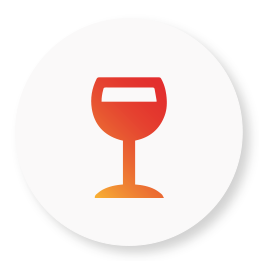
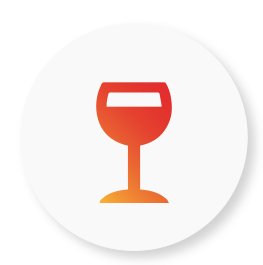
drankblade aangepast en meer gestijld + bottom nav

diff --git a/resto/resources/views/layouts/menu.blade.php b/resto/resources/views/layouts/menu.blade.php
@@ -1,0 +1,24 @@
+<!doctype html>
+<html lang="en">
+<head>
+    <!-- Required meta tags -->
+    <meta charset="utf-8">
+    <meta name="viewport" content="width=device-width, initial-scale=1, shrink-to-fit=no">
+
+    <!-- Bootstrap CSS -->
+    <link rel="stylesheet" href="https://stackpath.bootstrapcdn.com/bootstrap/4.3.1/css/bootstrap.min.css" integrity="sha384-ggOyR0iXCbMQv3Xipma34MD+dH/1fQ784/j6cY/iJTQUOhcWr7x9JvoRxT2MZw1T" crossorigin="anonymous">
+
+    <title>Resto</title>
+</head>
+<body>
+<div class="container">
+    @include('partials.menu-header')
+    @yield('content')
+</div>
+<!-- Optional JavaScript -->
+<!-- jQuery first, then Popper.js, then Bootstrap JS -->
+<script src="https://code.jquery.com/jquery-3.3.1.slim.min.js" integrity="sha384-q8i/X+965DzO0rT7abK41JStQIAqVgRVzpbzo5smXKp4YfRvH+8abtTE1Pi6jizo" crossorigin="anonymous"></script>
+<script src="https://cdnjs.cloudflare.com/ajax/libs/popper.js/1.14.7/umd/popper.min.js" integrity="sha384-UO2eT0CpHqdSJQ6hJty5KVphtPhzWj9WO1clHTMGa3JDZwrnQq4sF86dIHNDz0W1" crossorigin="anonymous"></script>
+<script src="https://stackpath.bootstrapcdn.com/bootstrap/4.3.1/js/bootstrap.min.js" integrity="sha384-JjSmVgyd0p3pXB1rRibZUAYoIIy6OrQ6VrjIEaFf/nJGzIxFDsf4x0xIM+B07jRM" crossorigin="anonymous"></script>
+</body>
+</html>

diff --git a/resto/resources/views/content/dranken.blade.php b/resto/resources/views/content/dranken.blade.php
@@ -1,0 +1,23 @@
+@extends('layouts.menu')
+
+@section('content')
+    <div class="row">
+        <nav class="navbar fixed-bottom navbar-light bg-light">
+            <div class="col">
+                <a style="width: 100%" class="navbar-brand" href="{{Route('content.dranken')}}"><img style="width: 100%;" src="{{ URL::asset("/images/btnDrinksActive.png") }}"></a>
+            </div>
+            <div class="col">
+                <a style="width: 100%" class="navbar-brand" href="#"><img style="width: 100%;" src="{{ URL::asset("/images/btnFood.png") }}"></a>
+            </div>
+            <div class="col">
+                <a style="width: 100%" class="navbar-brand" href="#"><img style="width: 100%;" src="{{ URL::asset("/images/btnBell.png") }}"></a>
+            </div>
+            <div class="col">
+                <a style="width: 100%" class="navbar-brand" href="#"><img style="width: 100%;" src="{{ URL::asset("/images/btnHistory.png") }}"></a>
+            </div>
+            <div class="col">
+                <a style="width: 100%" class="navbar-brand" href="#"><img style="width: 100%;" src="{{ URL::asset("/images/btnBill.png") }}"></a>
+            </div>
+        </nav>
+    </div>
+@endsection

diff --git a/resto/resources/views/content/index.blade.php b/resto/resources/views/content/index.blade.php
@@ -5,7 +5,7 @@
 
     <div class="row" style="margin-top: 1.5em">
         <div class="col-4" style="padding: 0 0 0 2em;">
-            <a href="{{Route('content.dranken')}}"><img src="{{ URL::asset("/images/drinks.png") }}" style="width: 100%;"></a>
+            <a class="bottomBtn" href="{{Route('content.dranken')}}"><img src="{{ URL::asset("/images/drinks.png") }}" style="width: 100%;"></a>
         </div>
         <div class="col-4">
             <img style="width: 100%;" src="{{ URL::asset("/images/food.png") }}">

diff --git a/resto/resources/views/partials/menu-header.blade.php b/resto/resources/views/partials/menu-header.blade.php
@@ -1,0 +1,5 @@
+<div class="row" style="border-color: #e3342f; border-style: solid; border-bottom-width: 0.5px; border-top:0; border-left:0;
+border-right:0;">
+    <img style="width: 100%;" src="{{ URL::asset("/images/menuHead.png") }}">
+</div>
+
